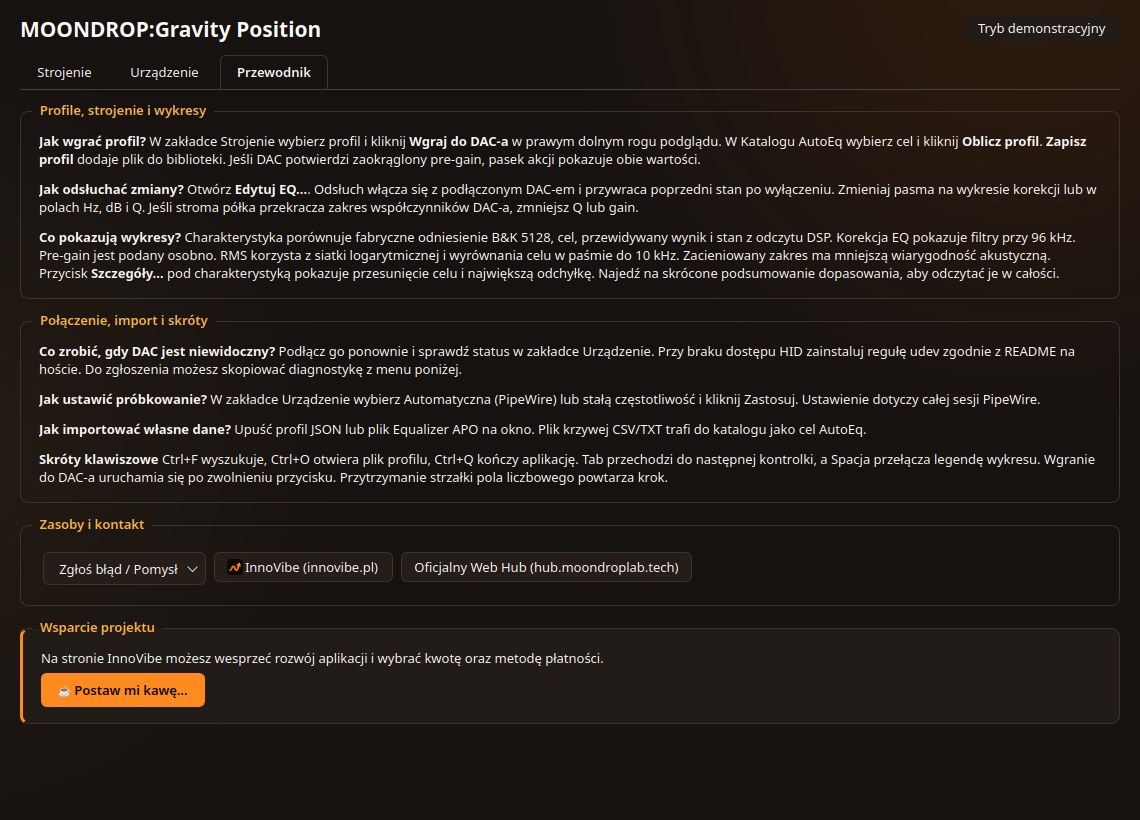
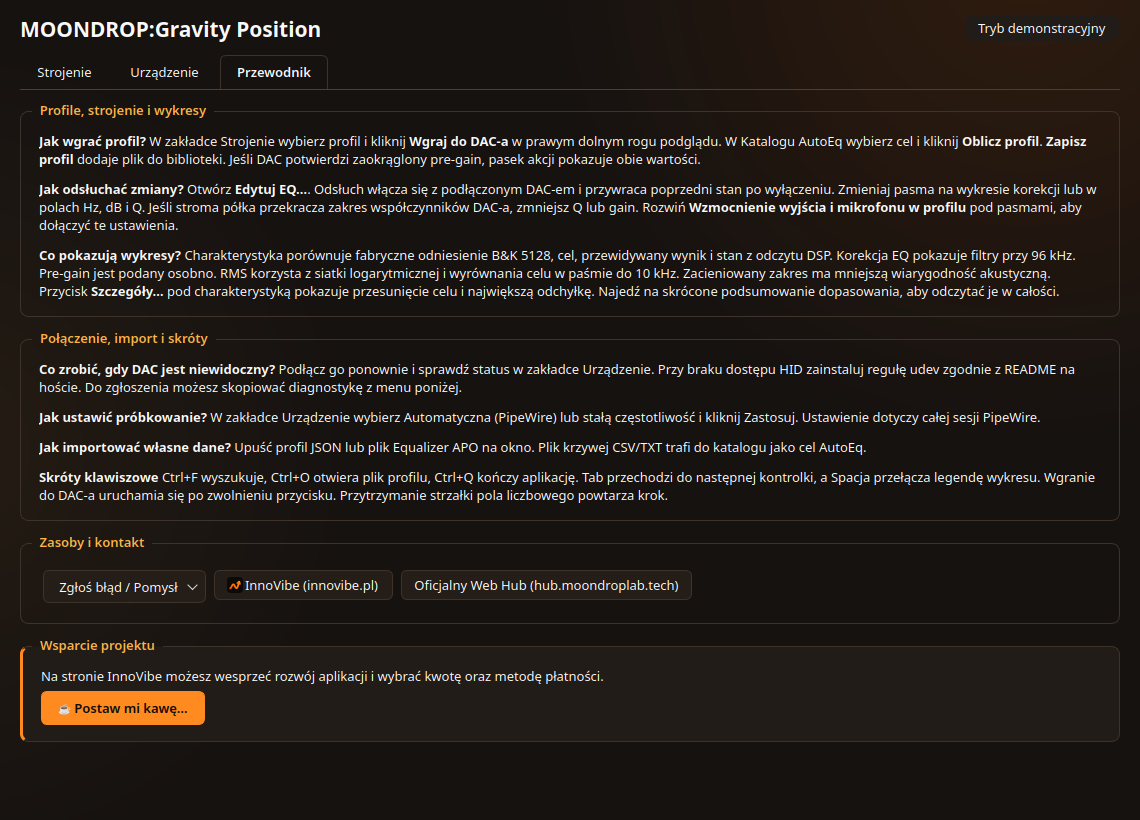
Fit editor bands and Guide tab at startup, refresh screenshots

Changed region(s): [[0.0307, 0.2439, 0.9518, 0.8841]]

diff --git a/tests/test_gui_smoke.py b/tests/test_gui_smoke.py
@@ -13,7 +13,7 @@ import pytest
 from PySide6.QtCore import QPoint, QRect, QStandardPaths, Qt
 from PySide6.QtGui import QFont
 from PySide6.QtTest import QTest
-from PySide6.QtWidgets import QApplication, QMessageBox, QStyle, QStyleOptionComboBox
+from PySide6.QtWidgets import QAbstractSpinBox, QApplication, QMessageBox, QStyle, QStyleOptionComboBox, QWidget
 
 import position_gui as gui
 
@@ -159,6 +159,29 @@ def test_guide_tooltips_and_support_links(tmp_path: Path, monkeypatch) -> None:
         app.processEvents()
 
 
+def test_guide_fits_at_start_with_larger_font(tmp_path: Path, monkeypatch) -> None:
+    app = QApplication.instance() or QApplication([])
+    original_font = app.font()
+    app.setFont(QFont("DejaVu Sans", 12))
+    (tmp_path / "settings.json").write_text('{"language":"pl","theme":"dark"}')
+    with monkeypatch.context() as roomy_screen:
+        roomy_screen.setattr(gui, "size_to_screen", QWidget.resize)
+        window = gui.ProfilesWindow(demo=True, library_directory=tmp_path / "profiles")
+    try:
+        window.show()
+        QTest.qWait(50)
+        start_size = window.size()
+        for index in (1, 2):
+            window.tabs.setCurrentIndex(index)
+            QTest.qWait(50)
+            assert window.tabs.currentWidget().verticalScrollBar().maximum() == 0
+            assert window.size() == start_size
+    finally:
+        window.quit_from_tray()
+        app.processEvents()
+        app.setFont(original_font)
+
+
 def test_phase1_phase2_eq_features(tmp_path: Path, monkeypatch) -> None:
     monkeypatch.setenv("XDG_DATA_HOME", str(tmp_path / "data"))
     monkeypatch.setenv("XDG_CACHE_HOME", str(tmp_path / "cache"))
@@ -187,7 +210,20 @@ def test_phase1_phase2_eq_features(tmp_path: Path, monkeypatch) -> None:
         assert window.preview_plot.points != window.preview_plot.factory_points
         assert window.correction_plot.points == gui.response_points(sample, gui.EQ_PLOT_FREQUENCIES)
 
-        editor = gui.EqualizerDialog(window, sample, sample, window.factory_profile, device_path=None)
+        with monkeypatch.context() as roomy_screen:
+            roomy_screen.setattr(gui, "size_to_screen", QWidget.resize)
+            editor = gui.EqualizerDialog(window, sample, sample, window.factory_profile, device_path=None)
+        editor.show()
+        QTest.qWait(50)
+        assert editor.editor_scroll.verticalScrollBar().maximum() == 0
+        for field in editor.findChildren(QAbstractSpinBox):
+            assert field.lineEdit().textMargins().left() >= 6
+        editor.preamp.setValue(editor.preamp.minimum())
+        preamp_text = editor.preamp.lineEdit()
+        margins = preamp_text.textMargins()
+        assert preamp_text.fontMetrics().horizontalAdvance(preamp_text.text()) + margins.left() + margins.right() <= (
+            preamp_text.width()
+        )
         assert editor.plot.correction and editor.plot.interactive
         assert not editor.acoustic_plot.correction
         assert not editor.upload.autoDefault()

diff --git a/skrypty/position_gui.py b/skrypty/position_gui.py
@@ -59,6 +59,7 @@ from PySide6.QtGui import (
 )
 from PySide6.QtNetwork import QLocalServer, QLocalSocket
 from PySide6.QtWidgets import (
+    QAbstractSpinBox,
     QApplication,
     QBoxLayout,
     QButtonGroup,
@@ -90,6 +91,7 @@ from PySide6.QtWidgets import (
     QSplitter,
     QStackedWidget,
     QStyle,
+    QStyleOptionTabWidgetFrame,
     QSystemTrayIcon,
     QTabWidget,
     QToolButton,
@@ -2014,7 +2016,8 @@ class EqualizerDialog(QDialog):
         layout = QVBoxLayout(self.editor_content)
         layout.setContentsMargins(0, 0, 5, 0)
         layout.setSpacing(8)
-        outer.addWidget(scroll_content(self.editor_content), 1)
+        self.editor_scroll = scroll_content(self.editor_content)
+        outer.addWidget(self.editor_scroll, 1)
 
         name_row = QHBoxLayout()
         self.name = QLineEdit()
@@ -2035,7 +2038,7 @@ class EqualizerDialog(QDialog):
         gain_row = QHBoxLayout()
         self.preamp = self.decimal(-128, 0, 0.1)
         self.preamp.setSuffix(" dB")
-        self.preamp.setMinimumWidth(88)
+        self.preamp.setMinimumWidth(96)
         self.preamp.setAccessibleName(tr("editor.preamp_label"))
         self.preamp.setToolTip(tr("tooltip.editor_preamp"))
         preamp_label = QLabel(tr("editor.preamp_label"))
@@ -2219,9 +2222,17 @@ class EqualizerDialog(QDialog):
         self.editor_buttons = buttons
         outer.addWidget(buttons)
 
+        for spin_box in self.findChildren(QAbstractSpinBox):
+            spin_box.lineEdit().setTextMargins(6, 0, 2, 0)
+
         if source is None:
             source = Profile("Własny EQ", dac.CUSTOM_SLOT, default_custom_bands(), 0)
         self.set_profile(source)
+        self.ensurePolished()
+        outer.activate()
+        content_height = max(layout.minimumSize().height(), layout.heightForWidth(self.editor_scroll.width()))
+        extra_height = max(0, content_height - self.editor_scroll.height())
+        size_to_screen(self, self.width(), self.height() + extra_height)
 
     def showEvent(self, event) -> None:
         super().showEvent(event)
@@ -3621,6 +3632,16 @@ class ProfilesWindow(QWidget):
         links_layout.addWidget(self.guide_hub_btn)
         self.apply_tooltips()
         self.update_accent_texts()
+        self.ensurePolished()
+        layout.activate()
+        tab_style = QStyleOptionTabWidgetFrame()
+        self.tabs.initStyleOption(tab_style)
+        tab_contents = self.tabs.style().subElementRect(QStyle.SubElement.SE_TabWidgetTabContents, tab_style, self.tabs)
+        page_height = max(
+            max(page_layout.minimumSize().height(), page_layout.heightForWidth(tab_contents.width()))
+            for page_layout in (device_layout, guide_layout)
+        )
+        size_to_screen(self, self.width(), self.height() + max(0, page_height - tab_contents.height()))
 
         self.load_library()
         self.profiles.currentItemChanged.connect(self.update_selection)

diff --git a/README.pl.md b/README.pl.md
@@ -92,7 +92,7 @@ Obecny transport HID otwiera bezpośrednio `/dev/hidraw*`. Portal USB Flatpaka p
 
 ## Zrzuty ekranu
 
-MOONDROP:Gravity Position v0.3.6 w trybie demonstracyjnym z motywem **Ciemny (InnoVibe)**.
+MOONDROP:Gravity Position uruchomiony ze źródeł w trybie demonstracyjnym z motywem **Ciemny (InnoVibe)**.
 
 ### 1. Strojenie i podgląd charakterystyki
 Po lewej przeglądasz **Moje profile**, a po prawej oglądasz przewidywany efekt bez zmieniania ustawień sprzętu — **Wybrany profil** i **Aktywny w DAC-u** są wyraźnie rozdzielone, dopóki nie klikniesz **Wgraj do DAC-a** (przycisk zmienia się na **Już aktywny w DAC-u**, gdy stan sprzętu jest zgodny z wyborem).
@@ -123,6 +123,7 @@ W **Katalogu AutoEq** wybierz źródło pomiarów i typ słuchawek, a następnie
 Kliknij **Edytuj EQ…**, aby otworzyć osobny edytor. Przy podłączonym DAC-u **Odsłuch na żywo** uruchamia się automatycznie, pozwala sprawdzać każdą zmianę w czasie rzeczywistym bez zapisu do flash i bezpiecznie przywraca wcześniejsze ustawienia DAC-a po wyłączeniu lub anulowaniu.
 
 - Przeciągaj ponumerowane punkty `1–8` bezpośrednio na wykresie **Korekcja EQ** (częstotliwość / gain / kółko myszy dla Q), korzystaj z suwaków lub pól liczbowych i użyj **Ustaw automatycznie**, aby dobrać pre-gain bez ryzyka przesterowania.
+- Edytor po otwarciu mieści osiem pasm, gdy pozwala na to wysokość ekranu. Rozwiń **Wzmocnienie wyjścia i mikrofonu w profilu** pod pasmami, aby dołączyć te ustawienia.
 - Jeśli stroma półka `LSQ` lub `HSQ` przekracza zakres współczynników DAC-a, zmniejsz Q lub gain. Po zakończeniu odsłuch przywraca pierwotne współczynniki i pre-gain.
 - Przełącz na zakładkę **Charakterystyka**, aby ocenić odpowiedź akustyczną, włącz **Porównaj z profilem wyjściowym**, a dolnym paskiem zapisz profil na dysku (**Zapisz profil**), wyeksportuj (**Eksportuj profil…** do `.txt` / `.json`) lub wgraj do pamięci DAC-a (**Wgraj do DAC-a**).
 

diff --git a/README.md b/README.md
@@ -92,7 +92,7 @@ The current HID transport opens `/dev/hidraw*` directly. Flatpak's USB portal su
 
 ## Screenshots
 
-MOONDROP:Gravity Position v0.3.6 running in demo mode with the **InnoVibe Dark** theme.
+MOONDROP:Gravity Position running from source in demo mode with the **InnoVibe Dark** theme.
 
 ### 1. Tuning & Frequency Response Preview
 Browse **My profiles** on the left and inspect the prediction on the right without touching your DAC — **Selected profile** and **Active on DAC** stay clearly separated until you click **Apply to DAC** (which changes to **Already active on DAC** once matched).
@@ -123,6 +123,7 @@ Switch to **AutoEq catalog** to filter thousands of IEM and over-ear measurement
 Click **Edit EQ…** to open the dedicated editor. With a DAC connected, **Live preview** turns on automatically, lets you audition every tweak in real time without flashing memory, and safely restores your previous DAC settings if you turn it off or cancel.
 
 - Drag numbered handles `1–8` directly on the **EQ correction** plot (Freq / Gain / scroll wheel Q), fine-tune with sliders or numeric fields, and click **Set automatically** to set pre-gain from available headroom.
+- The editor fits all eight bands on opening when the available screen height allows it. Expand **Output and microphone gain in profile** below the bands to attach those settings.
 - If a steep `LSQ` or `HSQ` exceeds the DAC's coefficient range, reduce Q or gain. Live preview restores the original coefficients and pre-gain when it ends.
 - Switch to **Frequency response** to check the predicted acoustic curve, enable **Compare with initial profile**, and use the bottom bar to **Export profile…** (`.txt` / `.json`), **Save profile**, or **Apply to DAC**.
 
